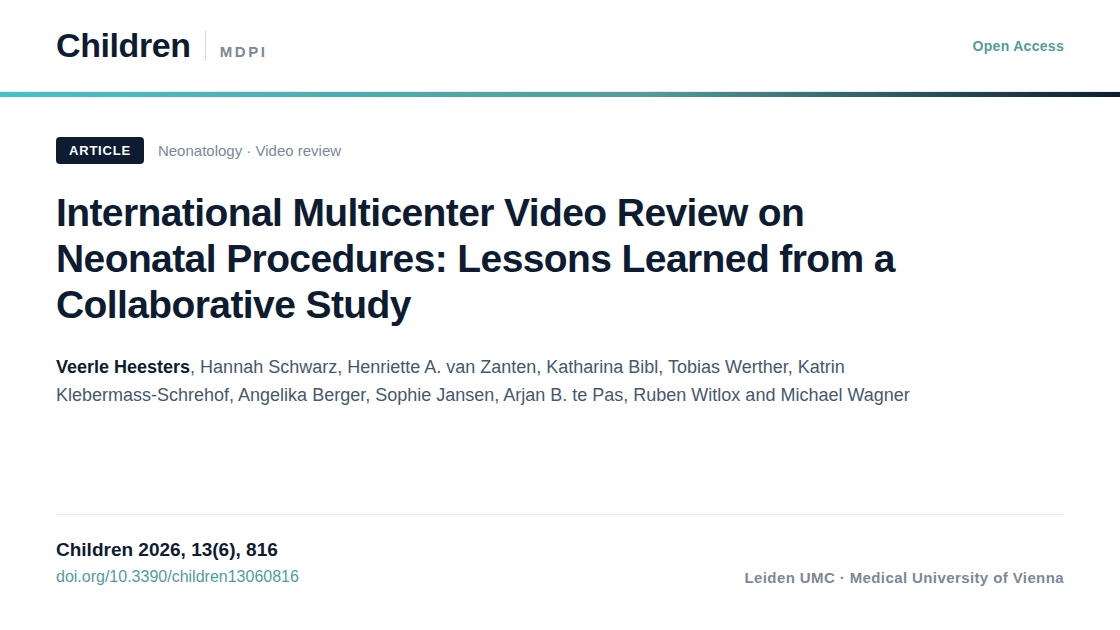
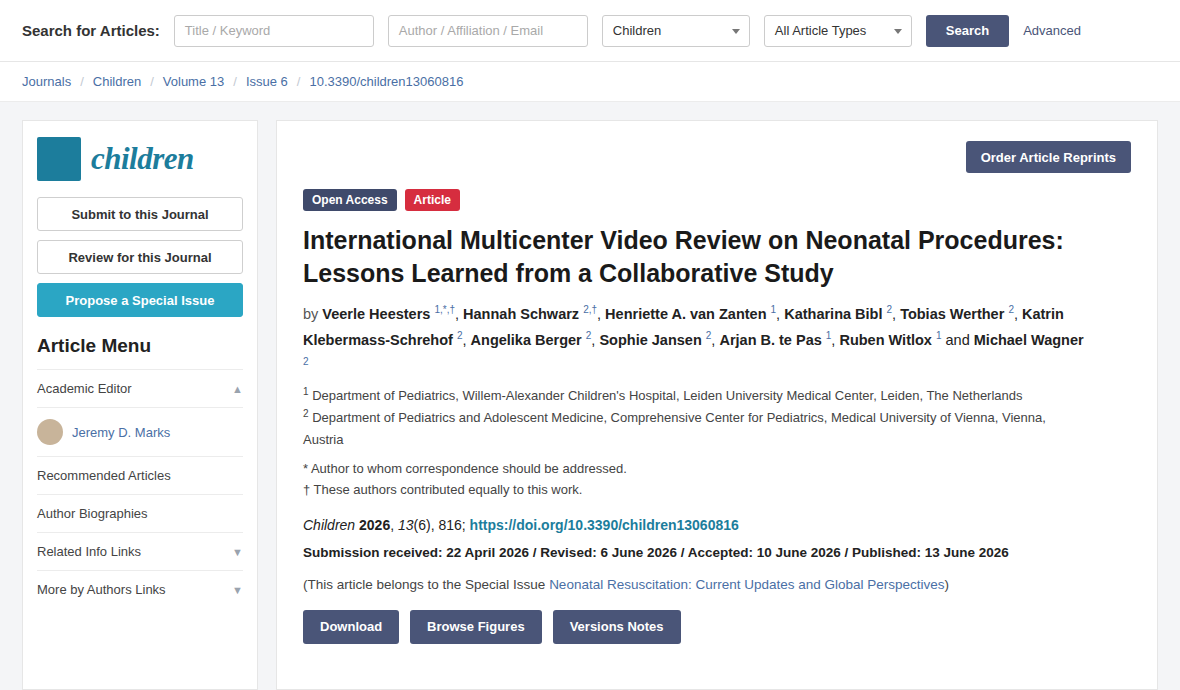
Rebuild the Children preview from the real article page
The screenshot of the MDPI page settles what the earlier preview had
to guess at. Rework the plate to mirror the actual article header —
journal rail with the teal children masthead, Open Access and Article
chips, title, the full author line with affiliation markers, the two
affiliations, the citation and submission/revision/acceptance dates,
and the action row — so it reads as a page capture alongside the
other five previews instead of a standalone card.

The page also confirms the publication date, so the citation picks up
"Published 2026 Jun 13" and now matches the narrative review's form.

Claude-Session: https://claude.ai/code/session_0134xR6YvuFP52khiERmXnLn

diff --git a/frankenstein/src/data/publicationsPage.js b/frankenstein/src/data/publicationsPage.js
@@ -174,7 +174,7 @@ These findings highlight the potential importance of considering vocal cord func
     title: '6. International Collaboration',
     content: `**[International Multicenter Video Review on Neonatal Procedures: Lessons Learned from a Collaborative Study](https://www.mdpi.com/2227-9067/13/6/816)**
 
-*Heesters V, Schwarz H, van Zanten HA, et al. Children (Basel). 2026;13(6):816.*
+*Heesters V, Schwarz H, van Zanten HA, et al. Children (Basel). 2026;13(6):816. Published 2026 Jun 13.*
 
 ---
 
